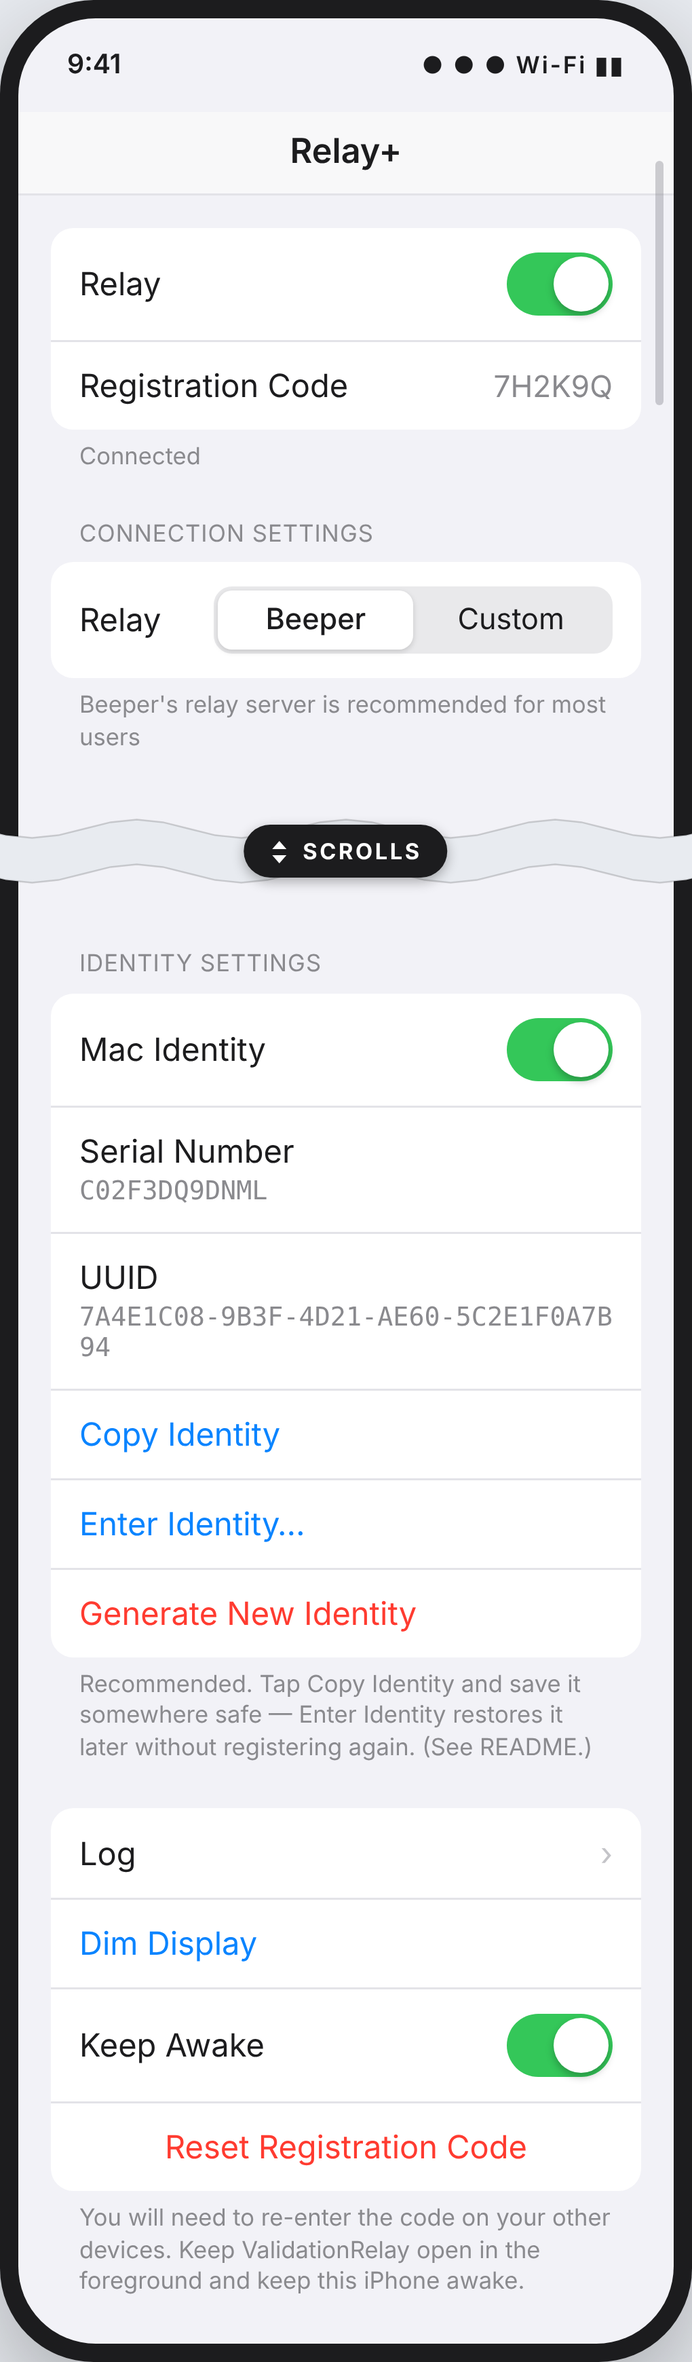
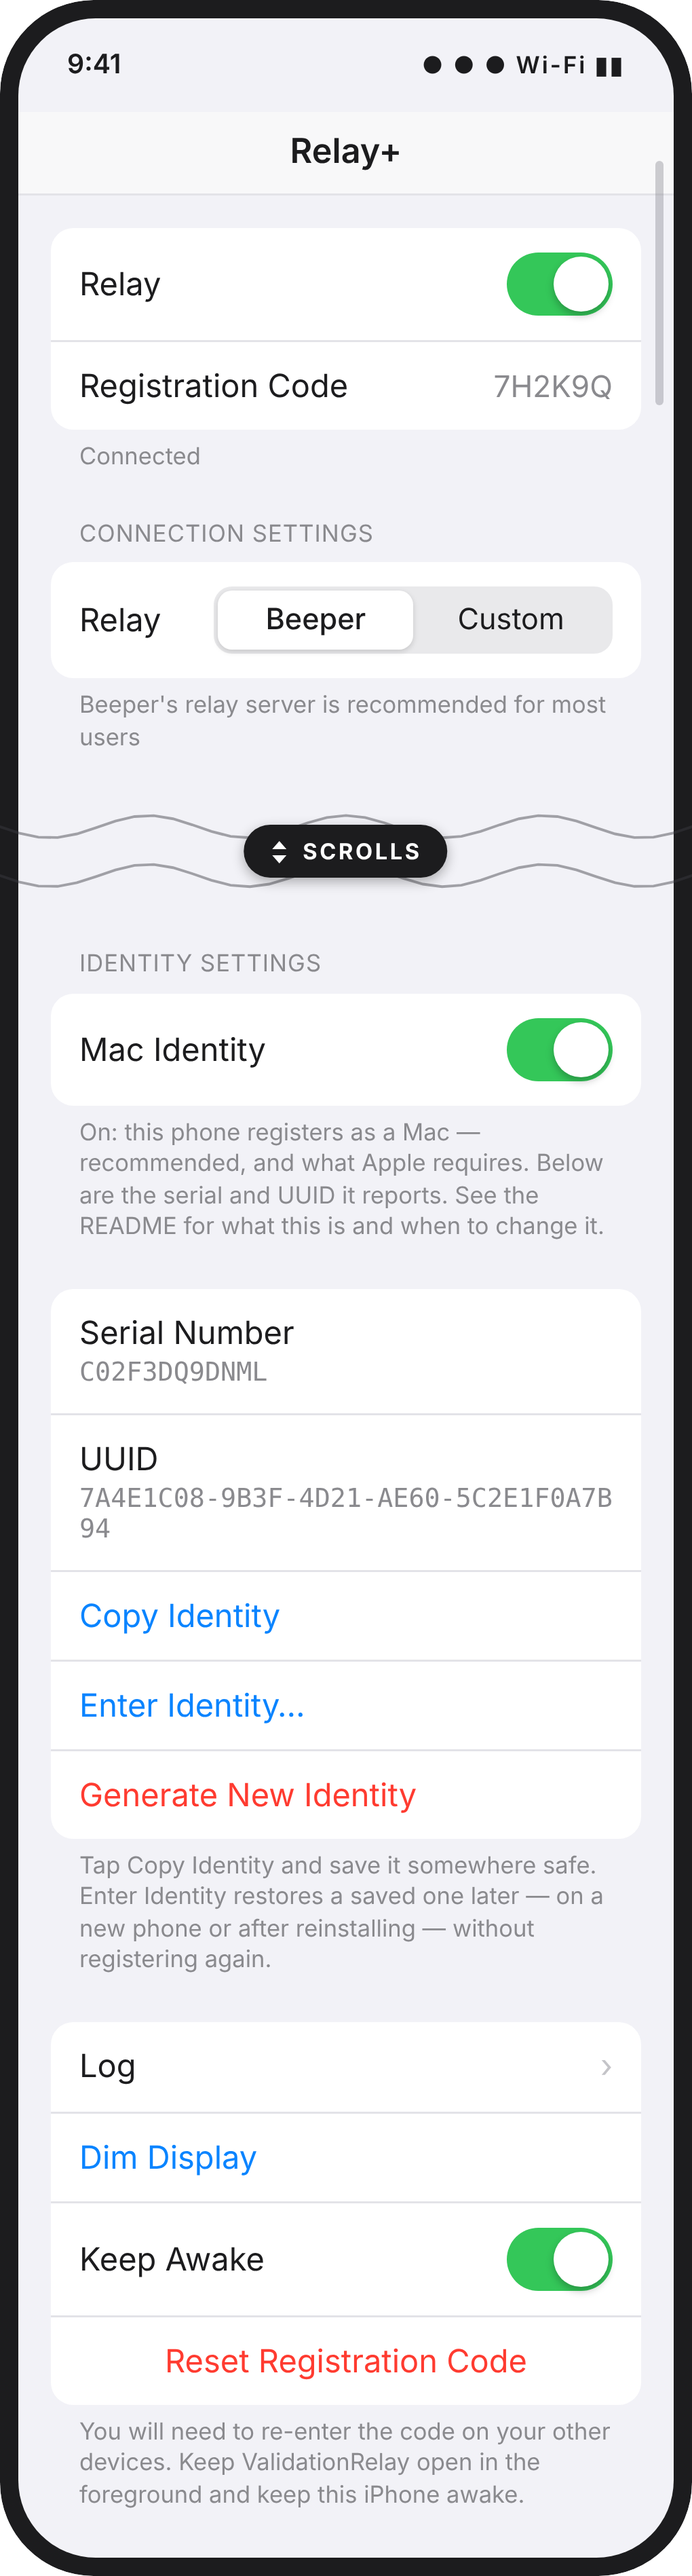
Clarify Mac Identity UI and refresh the README screenshot (#9)
* Clarify Mac Identity: note under the toggle, and explain the Enter Identity pre-fill

* Update README screenshot: new layout, transparent corners

diff --git a/ValidationRelay/ContentView.swift b/ValidationRelay/ContentView.swift
@@ -110,7 +110,16 @@ struct ContentView: View {
                             }
                         }
                     ))
-                    if macIdentityEnabled, let identity = macIdentity {
+                } header: {
+                    Text("Identity settings")
+                } footer: {
+                    Text(macIdentityEnabled
+                         ? "On: this phone registers as a Mac — recommended, and what Apple requires. Below are the serial and UUID it reports. See the README for what this is and when to change it."
+                         : "Off: this phone reports its own identity, which Apple no longer accepts at activation. Turn on to register as a Mac. See the README for details.")
+                }
+
+                if macIdentityEnabled, let identity = macIdentity {
+                    Section {
                         VStack(alignment: .leading, spacing: 4) {
                             Text("Serial Number")
                             Text(identity.serialNumber)
@@ -134,13 +143,9 @@ struct ContentView: View {
                             pendingAction = .newIdentity
                         }
                         .foregroundColor(.red)
+                    } footer: {
+                        Text("Tap Copy Identity and save it somewhere safe. Enter Identity restores a saved one later — on a new phone or after reinstalling — without registering again.")
                     }
-                } header: {
-                    Text("Identity settings")
-                } footer: {
-                    Text(macIdentityEnabled
-                         ? "Recommended. Tap Copy Identity and save it somewhere safe — Enter Identity restores it later without registering again. (See README.)"
-                         : "This phone reports its own identity. Turn on to register as a Mac. (See README.)")
                 }
                 
                 Section {
@@ -303,8 +308,11 @@ struct IdentityEntryView: View {
                         .font(.system(.footnote, design: .monospaced))
                         .autocorrectionDisabled()
                         .autocapitalization(.allCharacters)
+                } header: {
+                    Text("These fields start filled with your current identity — not your clipboard. Edit them, or paste in an identity you saved earlier, then tap Save to replace the current one.")
+                        .textCase(nil)
                 } footer: {
-                    Text(error ?? "Use this to restore an identity you copied earlier. It replaces the current identity.")
+                    Text(error ?? "Used to restore an identity you backed up with Copy Identity — for example on a new phone or after reinstalling.")
                         .foregroundColor(error == nil ? .secondary : .red)
                 }
             }
